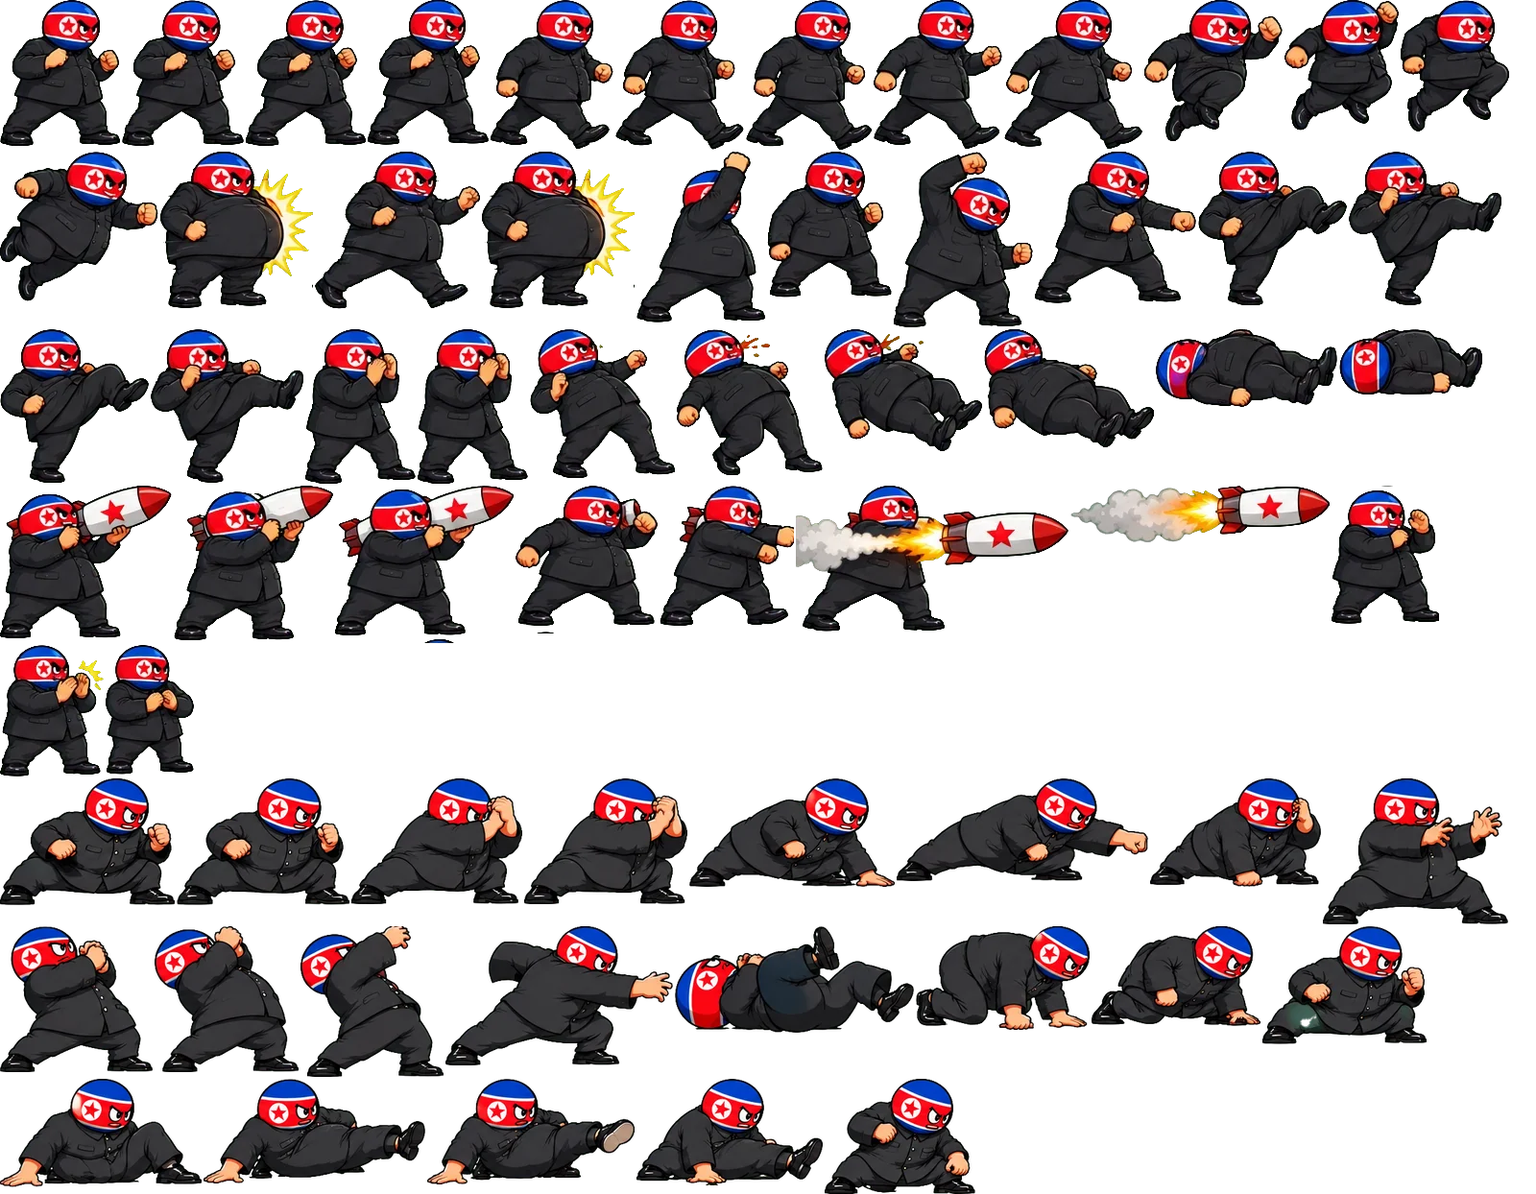
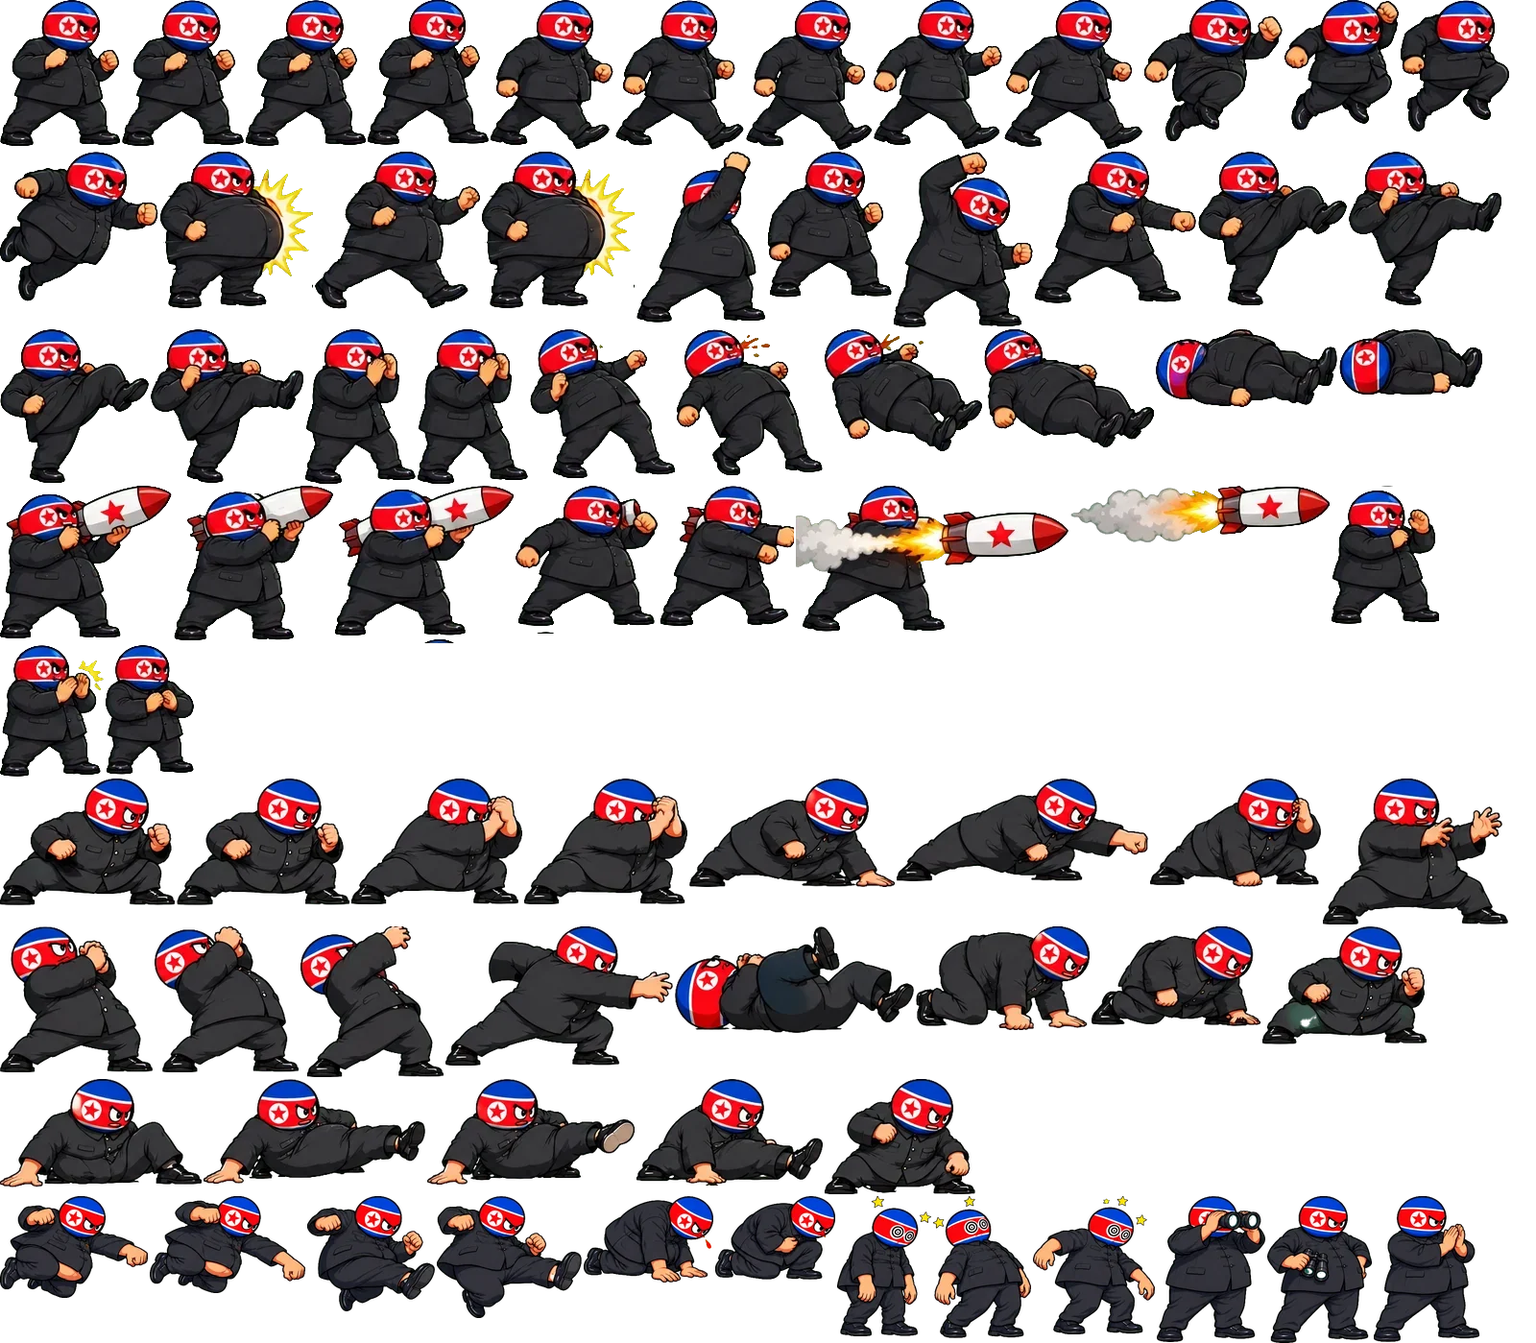
Presidents Brawl: North Korea, China and EU jump attacks, crouch hit, dizzy and entrance frames — all 10 fighters complete
Claude-Session: https://claude.ai/code/session_01HtMgEDxgy3YeKCDKp7REeJ

diff --git a/brawl/index.html b/brawl/index.html
@@ -589,9 +589,9 @@ addSprite('tur',{"idle": [[0, 0, 139, 173, 66.9], [141, 0, 140, 174, 68.7], [283
 addSprite('ukr',{"idle": [[0, 0, 149, 218, 71.3], [151, 0, 147, 218, 69.4], [300, 0, 151, 213, 71.6], [453, 0, 143, 218, 65.8]], "walk": [[598, 0, 160, 233, 76.9], [760, 0, 164, 233, 80.2], [926, 0, 169, 232, 83.2], [1097, 0, 168, 233, 81.0]], "jump": [[1267, 0, 150, 170, 79.9], [1419, 0, 172, 215, 86.2], [0, 235, 130, 196, 54.5], [132, 235, 148, 183, 65.7]], "jab": [[282, 235, 169, 220, 82.6], [453, 235, 224, 221, 88.1], [679, 235, 165, 221, 80.0]], "heavy": [[846, 235, 192, 218, 95.6], [1040, 235, 233, 221, 92.3], [1275, 235, 249, 221, 97.6], [0, 458, 180, 214, 88.0]], "kick": [[182, 458, 125, 213, 50.0], [309, 458, 231, 202, 66.9], [542, 458, 239, 202, 76.3], [783, 458, 144, 204, 59.7]], "block": [[929, 458, 181, 234, 83.0], [1112, 458, 173, 235, 80.9]], "hit": [[1287, 458, 222, 213, 110.2], [0, 695, 201, 212, 95.1], [203, 695, 206, 214, 109.3]], "ko": [[411, 695, 226, 179, 98.6], [639, 695, 296, 164, 138.8], [937, 695, 304, 110, 145.5], [1243, 695, 269, 87, 123.3]], "super": [[0, 911, 210, 241, 50.2], [212, 911, 301, 289, 152.1], [515, 911, 262, 261, 73.5], [779, 911, 270, 256, 142.3], [1051, 911, 202, 255, 65.4], [1255, 911, 235, 199, 109.6]], "win": [[0, 1202, 178, 267, 86.3], [180, 1202, 171, 235, 84.3], [353, 1202, 142, 239, 67.9]], "crouch": [[0, 1471, 226, 200, 113.9], [228, 1471, 226, 200, 112.5]], "cblock": [[456, 1471, 219, 197, 102.0], [677, 1471, 214, 197, 100.2]], "lowp": [[893, 1471, 254, 174, 165.3], [1149, 1471, 333, 169, 191.6], [0, 1673, 295, 175, 149.0]], "grab": [[297, 1673, 254, 217, 151.4], [553, 1673, 236, 219, 86.3], [791, 1673, 230, 237, 68.5], [1023, 1673, 294, 200, 178.1]], "getup": [[0, 1912, 338, 115, 163.2], [340, 1912, 236, 178, 113.9], [578, 1912, 253, 189, 127.6]], "sweep": [[833, 1912, 234, 156, 140.3], [1069, 1912, 278, 153, 104.6], [0, 2103, 272, 160, 59.2], [274, 2103, 275, 160, 108.9]], "airp": [[0, 2265, 212, 170, 86.2], [214, 2265, 197, 153, 76.7]], "airk": [[413, 2265, 194, 217, 97.8], [609, 2265, 259, 183, 96.8]], "chit": [[870, 2265, 206, 141, 90.4], [1078, 2265, 180, 139, 73.1]], "dizzy": [[1260, 2265, 127, 215, 50.5], [1389, 2265, 139, 240, 63.5], [0, 2507, 151, 213, 68.8]], "intro": [[153, 2507, 168, 217, 81.6], [323, 2507, 222, 221, 95.7], [547, 2507, 158, 228, 36.5]]},'img/ukr.webp',0.64);
 addSprite('irn',{"idle": [[0, 0, 128, 165, 62.2], [130, 0, 130, 164, 61.8], [262, 0, 125, 164, 59.2], [389, 0, 130, 164, 61.8]], "walk": [[521, 0, 125, 163, 59.7], [648, 0, 128, 164, 60.3], [778, 0, 137, 164, 61.7]], "jump": [[917, 0, 135, 162, 69.1], [1054, 0, 110, 168, 54.9], [1166, 0, 108, 160, 51.8], [1276, 0, 130, 161, 62.0]], "jab": [[1408, 0, 176, 167, 69.1], [0, 170, 202, 166, 75.8], [204, 170, 176, 167, 69.1]], "heavy": [[382, 170, 172, 166, 67.5], [556, 170, 157, 164, 62.9], [715, 170, 150, 160, 63.7], [867, 170, 177, 158, 69.9]], "kick": [[1046, 170, 166, 168, 55.1], [1214, 170, 151, 181, 51.3], [1367, 170, 146, 176, 53.7], [0, 353, 130, 163, 66.1]], "block": [[132, 353, 134, 163, 67.1], [268, 353, 122, 162, 58.5]], "hit": [[392, 353, 139, 164, 72.3], [533, 353, 160, 153, 86.8], [695, 353, 142, 161, 80.7]], "ko": [[839, 353, 198, 109, 94.3], [1039, 353, 211, 91, 96.7], [1252, 353, 199, 77, 94.9], [0, 519, 248, 66, 115.6]], "super": [[250, 519, 122, 156, 66.6], [374, 519, 232, 128, 84.0], [608, 519, 214, 117, 83.8], [824, 519, 228, 109, 95.6], [1054, 519, 225, 109, 95.6], [1281, 519, 214, 106, 66.8], [0, 677, 146, 150, 36.7]], "win": [[148, 677, 87, 166, 41.0], [237, 677, 87, 166, 40.7], [326, 677, 87, 166, 42.6]], "crouch": [[0, 845, 168, 135, 81.2], [170, 845, 159, 137, 76.5]], "cblock": [[331, 845, 158, 135, 75.5], [491, 845, 158, 136, 76.1]], "lowp": [[651, 845, 217, 108, 140.0], [870, 845, 258, 111, 161.4], [1130, 845, 182, 113, 117.4]], "grab": [[1314, 845, 192, 164, 117.8], [0, 1011, 174, 159, 72.4], [176, 1011, 169, 160, 60.6], [347, 1011, 154, 174, 83.7], [503, 1011, 254, 140, 145.1]], "getup": [[759, 1011, 254, 91, 119.1], [1015, 1011, 194, 105, 100.7], [1211, 1011, 161, 112, 89.4], [1374, 1011, 150, 113, 72.7]], "sweep": [[0, 1187, 194, 118, 88.7], [196, 1187, 234, 113, 67.0], [432, 1187, 219, 115, 56.9], [653, 1187, 217, 123, 95.2], [872, 1187, 166, 124, 84.3]], "airp": [[0, 1313, 169, 122, 79.7], [171, 1313, 161, 102, 72.0]], "airk": [[334, 1313, 152, 145, 72.4], [488, 1313, 192, 120, 78.3]], "chit": [[682, 1313, 140, 96, 66.1], [824, 1313, 124, 93, 54.0]], "dizzy": [[950, 1313, 96, 152, 38.6], [1048, 1313, 98, 157, 46.5], [1148, 1313, 112, 148, 54.7]], "intro": [[1262, 1313, 167, 168, 86.9], [1431, 1313, 128, 126, 61.2], [0, 1483, 91, 164, 46.0]]},'img/irn.webp',0.85);
 addSprite('qat',{"idle": [[0, 0, 143, 176, 68.4], [145, 0, 145, 176, 69.9], [292, 0, 149, 177, 70.6], [443, 0, 145, 176, 69.9]], "walk": [[590, 0, 157, 174, 81.0], [749, 0, 131, 175, 63.9], [882, 0, 172, 177, 76.6]], "jump": [[1056, 0, 166, 184, 77.7], [1224, 0, 108, 186, 61.5], [1334, 0, 137, 168, 71.1], [0, 188, 132, 175, 69.5]], "jab": [[134, 188, 204, 182, 74.5], [340, 188, 258, 178, 95.7], [600, 188, 204, 182, 74.5]], "heavy": [[806, 188, 191, 178, 85.8], [999, 188, 165, 178, 76.9], [1166, 188, 165, 172, 74.4], [1333, 188, 208, 163, 88.6]], "kick": [[0, 372, 177, 177, 59.4], [179, 372, 154, 194, 36.5], [335, 372, 147, 197, 44.2], [484, 372, 164, 181, 79.7]], "block": [[650, 372, 152, 180, 72.2], [804, 372, 156, 183, 72.5]], "hit": [[962, 372, 153, 165, 84.2], [1117, 372, 175, 163, 96.2], [1294, 372, 171, 167, 97.3]], "ko": [[0, 571, 218, 119, 103.9], [220, 571, 229, 129, 110.2], [451, 571, 232, 112, 110.5], [685, 571, 256, 72, 119.8]], "super": [[943, 571, 167, 167, 101.0], [1112, 571, 201, 173, 94.5], [1315, 571, 181, 174, 79.7], [0, 747, 177, 178, 64.1], [179, 747, 310, 119, 167.8], [491, 747, 210, 119, 99.1], [703, 747, 191, 165, 81.2]], "win": [[896, 747, 123, 162, 57.4], [1021, 747, 118, 155, 55.8], [1141, 747, 123, 156, 60.5]], "crouch": [[0, 927, 189, 147, 88.8], [191, 927, 190, 149, 88.6]], "cblock": [[383, 927, 194, 147, 84.6], [579, 927, 165, 147, 79.5]], "lowp": [[746, 927, 236, 113, 149.3], [984, 927, 296, 111, 172.4], [1282, 927, 229, 115, 128.7]], "grab": [[0, 1078, 202, 176, 102.0], [204, 1078, 206, 175, 82.7], [412, 1078, 187, 179, 58.3], [601, 1078, 174, 186, 83.2], [777, 1078, 267, 143, 149.9]], "getup": [[1046, 1078, 282, 95, 138.8], [1330, 1078, 204, 106, 104.8], [0, 1266, 192, 112, 105.8], [194, 1266, 186, 117, 97.3]], "sweep": [[382, 1266, 227, 124, 100.1], [611, 1266, 283, 122, 85.1], [896, 1266, 236, 116, 71.8], [1134, 1266, 232, 124, 95.6], [1368, 1266, 182, 129, 90.8]], "airp": [[0, 1397, 163, 126, 65.1], [165, 1397, 162, 118, 65.8]], "airk": [[329, 1397, 143, 149, 69.7], [474, 1397, 153, 141, 70.5]], "chit": [[629, 1397, 150, 103, 70.1], [781, 1397, 140, 99, 60.0]], "dizzy": [[923, 1397, 104, 156, 42.9], [1029, 1397, 108, 175, 50.6], [1139, 1397, 126, 167, 67.2]], "intro": [[1267, 1397, 119, 176, 54.6], [1388, 1397, 102, 177, 45.8], [1492, 1397, 107, 176, 51.5]]},'img/qat.webp',0.8);
-addSprite('eu',{"idle": [[0, 0, 104, 176, 50.3], [106, 0, 104, 175, 50.6], [212, 0, 107, 175, 51.8], [321, 0, 110, 176, 52.9]], "walk": [[433, 0, 105, 175, 49.6], [540, 0, 122, 175, 60.0], [664, 0, 116, 174, 56.5], [782, 0, 124, 175, 61.2], [908, 0, 121, 177, 59.6]], "jump": [[1031, 0, 98, 163, 52.4], [1131, 0, 105, 149, 51.9], [1238, 0, 97, 148, 47.7], [1337, 0, 103, 148, 54.0]], "jab": [[1442, 0, 112, 166, 50.3], [0, 179, 143, 162, 49.4], [145, 179, 112, 166, 50.3]], "heavy": [[259, 179, 127, 164, 43.2], [388, 179, 129, 163, 44.2], [519, 179, 135, 164, 46.4], [656, 179, 127, 166, 52.2]], "kick": [[785, 179, 123, 160, 34.4], [910, 179, 135, 158, 43.0], [1047, 179, 131, 154, 49.0], [1180, 179, 157, 138, 58.8]], "block": [[1339, 179, 93, 160, 42.4], [1434, 179, 92, 161, 44.1]], "hit": [[0, 347, 109, 148, 58.4], [111, 347, 110, 145, 63.5], [223, 347, 112, 144, 62.8]], "ko": [[337, 347, 147, 134, 60.4], [486, 347, 159, 100, 74.7], [647, 347, 160, 58, 72.5], [809, 347, 166, 51, 72.7]], "super": [[977, 347, 98, 145, 45.3], [1077, 347, 134, 146, 54.0], [1213, 347, 176, 140, 55.9], [0, 497, 243, 137, 51.5], [245, 497, 262, 141, 52.3]], "proj": [[509, 497, 136, 89, 50.7]], "win": [[647, 497, 66, 127, 37.6], [715, 497, 68, 128, 30.4], [785, 497, 60, 125, 24.8]], "crouch": [[0, 640, 160, 152, 74.4], [162, 640, 165, 153, 73.2]], "cblock": [[329, 640, 165, 151, 71.9], [496, 640, 156, 152, 58.5]], "lowp": [[654, 640, 232, 111, 155.4], [888, 640, 293, 113, 186.3], [1183, 640, 212, 119, 127.8]], "grab": [[0, 795, 205, 176, 101.3], [207, 795, 193, 177, 50.3], [402, 795, 182, 176, 46.3], [586, 795, 186, 186, 67.4], [774, 795, 256, 152, 148.9]], "getup": [[1032, 795, 264, 89, 116.2], [1298, 795, 191, 106, 96.6], [0, 983, 173, 112, 97.7], [175, 983, 172, 121, 98.4]], "sweep": [[349, 983, 210, 119, 84.5], [561, 983, 266, 117, 74.4], [829, 983, 226, 117, 55.1], [1057, 983, 221, 119, 72.4], [1280, 983, 166, 126, 71.9]]},'img/eu.webp',0.77);
-addSprite('chn',{"idle": [[0, 0, 161, 208, 77.4], [163, 0, 163, 208, 77.6], [328, 0, 171, 208, 84.3], [501, 0, 166, 208, 80.1]], "walk": [[669, 0, 187, 215, 91.4], [858, 0, 182, 215, 90.2], [1042, 0, 182, 214, 94.8], [1226, 0, 184, 216, 91.2]], "jump": [[1412, 0, 161, 164, 90.4], [0, 218, 162, 193, 85.9], [164, 218, 145, 180, 79.2], [311, 218, 203, 184, 114.7]], "jab": [[516, 218, 222, 197, 110.3], [740, 218, 269, 196, 116.3], [1011, 218, 220, 197, 107.6]], "heavy": [[1233, 218, 194, 194, 97.7], [0, 417, 229, 195, 108.7], [231, 417, 254, 195, 128.8], [487, 417, 203, 197, 99.5]], "kick": [[692, 417, 233, 188, 39.8], [927, 417, 154, 192, 40.1], [1083, 417, 280, 136, 102.1], [1365, 417, 202, 159, 98.7]], "block": [[0, 616, 201, 236, 94.3], [203, 616, 202, 240, 94.4]], "hit": [[407, 616, 182, 232, 84.8], [591, 616, 197, 238, 93.2]], "ko": [[790, 616, 226, 221, 92.7], [1018, 616, 266, 186, 120.8], [1286, 616, 258, 124, 107.8], [0, 858, 285, 83, 134.6]], "super": [[287, 858, 182, 265, 87.9], [471, 858, 186, 271, 80.3], [659, 858, 200, 261, 68.2], [861, 858, 333, 253, 100.0], [1196, 858, 259, 203, 100.5]], "win": [[0, 1131, 160, 253, 75.1], [162, 1131, 139, 227, 52.3], [303, 1131, 131, 255, 49.2]], "crouch": [[0, 1388, 275, 185, 136.2], [277, 1388, 256, 185, 130.3]], "cblock": [[535, 1388, 244, 183, 104.9], [781, 1388, 213, 184, 95.1]], "lowp": [[996, 1388, 316, 139, 201.8], [0, 1575, 361, 141, 229.8], [363, 1575, 279, 142, 144.9]], "grab": [[644, 1575, 293, 208, 159.2], [939, 1575, 267, 205, 97.2], [1208, 1575, 261, 210, 114.9], [0, 1787, 223, 225, 119.3], [225, 1787, 294, 192, 165.6]], "getup": [[521, 1787, 355, 125, 174.2], [878, 1787, 250, 141, 126.0], [1130, 1787, 254, 138, 135.9], [0, 2014, 290, 137, 155.5]], "sweep": [[292, 2014, 351, 153, 127.6], [645, 2014, 357, 151, 142.6], [1004, 2014, 294, 158, 116.7], [0, 2174, 320, 146, 117.6], [322, 2174, 244, 165, 119.8]]},'img/chn.webp',0.72);
-addSprite('nk',{"idle": [[0, 0, 125, 152, 59.5], [127, 0, 127, 152, 60.5], [256, 0, 125, 152, 59.3], [383, 0, 126, 151, 60.0]], "walk": [[511, 0, 128, 155, 62.3], [641, 0, 134, 156, 68.4], [777, 0, 131, 156, 65.8], [910, 0, 134, 155, 66.9], [1046, 0, 144, 155, 72.2]], "jump": [[1192, 0, 144, 147, 68.4], [1338, 0, 119, 136, 62.0], [1459, 0, 113, 137, 54.2], [0, 158, 165, 156, 73.2]], "jab": [[167, 158, 159, 163, 56.2], [328, 158, 172, 164, 80.7], [502, 158, 159, 163, 56.2]], "heavy": [[663, 158, 134, 178, 64.0], [799, 158, 130, 152, 63.7], [931, 158, 145, 183, 63.5], [1078, 158, 168, 158, 72.5]], "kick": [[1248, 158, 155, 160, 49.1], [1405, 158, 159, 160, 56.7], [0, 343, 155, 160, 49.1], [157, 343, 159, 160, 56.7]], "block": [[318, 343, 115, 161, 51.4], [435, 343, 115, 161, 51.4]], "hit": [[552, 343, 151, 155, 82.6], [705, 343, 152, 152, 91.2]], "ko": [[859, 343, 164, 127, 70.9], [1025, 343, 177, 123, 73.2], [1204, 343, 189, 81, 88.7], [1395, 343, 149, 68, 70.7]], "super": [[0, 506, 179, 159, 59.5], [181, 506, 166, 161, 59.9], [349, 506, 186, 164, 68.6], [537, 506, 148, 154, 71.2], [687, 506, 140, 146, 64.0], [829, 506, 284, 152, 78.9]], "proj": [[1115, 506, 270, 59, 90.8]], "win": [[1387, 506, 112, 144, 52.7], [0, 672, 108, 137, 48.7], [110, 672, 92, 135, 43.1]], "crouch": [[0, 811, 182, 132, 88.9], [184, 811, 180, 132, 88.1]], "cblock": [[366, 811, 178, 131, 85.3], [546, 811, 170, 131, 81.5]], "lowp": [[718, 811, 214, 113, 144.1], [934, 811, 262, 107, 163.4], [1198, 811, 178, 113, 123.9]], "grab": [[1378, 811, 193, 152, 96.1], [0, 965, 159, 152, 59.2], [161, 965, 150, 152, 50.9], [313, 965, 149, 157, 56.6], [464, 965, 237, 145, 119.7]], "getup": [[703, 965, 249, 111, 115.0], [954, 965, 181, 108, 94.6], [1137, 965, 176, 104, 95.9], [1315, 965, 171, 123, 83.4]], "sweep": [[0, 1124, 210, 113, 106.1], [212, 1124, 231, 109, 89.2], [445, 1124, 216, 110, 83.2], [663, 1124, 194, 111, 98.6], [859, 1124, 157, 120, 94.6]]},'img/nk.webp',.82);
+addSprite('eu',{"idle": [[0, 0, 104, 176, 50.3], [106, 0, 104, 175, 50.6], [212, 0, 107, 175, 51.8], [321, 0, 110, 176, 52.9]], "walk": [[433, 0, 105, 175, 49.6], [540, 0, 122, 175, 60.0], [664, 0, 116, 174, 56.5], [782, 0, 124, 175, 61.2], [908, 0, 121, 177, 59.6]], "jump": [[1031, 0, 98, 163, 52.4], [1131, 0, 105, 149, 51.9], [1238, 0, 97, 148, 47.7], [1337, 0, 103, 148, 54.0]], "jab": [[1442, 0, 112, 166, 50.3], [0, 179, 143, 162, 49.4], [145, 179, 112, 166, 50.3]], "heavy": [[259, 179, 127, 164, 43.2], [388, 179, 129, 163, 44.2], [519, 179, 135, 164, 46.4], [656, 179, 127, 166, 52.2]], "kick": [[785, 179, 123, 160, 34.4], [910, 179, 135, 158, 43.0], [1047, 179, 131, 154, 49.0], [1180, 179, 157, 138, 58.8]], "block": [[1339, 179, 93, 160, 42.4], [1434, 179, 92, 161, 44.1]], "hit": [[0, 347, 109, 148, 58.4], [111, 347, 110, 145, 63.5], [223, 347, 112, 144, 62.8]], "ko": [[337, 347, 147, 134, 60.4], [486, 347, 159, 100, 74.7], [647, 347, 160, 58, 72.5], [809, 347, 166, 51, 72.7]], "super": [[977, 347, 98, 145, 45.3], [1077, 347, 134, 146, 54.0], [1213, 347, 176, 140, 55.9], [0, 497, 243, 137, 51.5], [245, 497, 262, 141, 52.3]], "proj": [[509, 497, 136, 89, 50.7]], "win": [[647, 497, 66, 127, 37.6], [715, 497, 68, 128, 30.4], [785, 497, 60, 125, 24.8]], "crouch": [[0, 640, 160, 152, 74.4], [162, 640, 165, 153, 73.2]], "cblock": [[329, 640, 165, 151, 71.9], [496, 640, 156, 152, 58.5]], "lowp": [[654, 640, 232, 111, 155.4], [888, 640, 293, 113, 186.3], [1183, 640, 212, 119, 127.8]], "grab": [[0, 795, 205, 176, 101.3], [207, 795, 193, 177, 50.3], [402, 795, 182, 176, 46.3], [586, 795, 186, 186, 67.4], [774, 795, 256, 152, 148.9]], "getup": [[1032, 795, 264, 89, 116.2], [1298, 795, 191, 106, 96.6], [0, 983, 173, 112, 97.7], [175, 983, 172, 121, 98.4]], "sweep": [[349, 983, 210, 119, 84.5], [561, 983, 266, 117, 74.4], [829, 983, 226, 117, 55.1], [1057, 983, 221, 119, 72.4], [1280, 983, 166, 126, 71.9]], "airp": [[0, 1111, 153, 124, 61.8], [155, 1111, 155, 116, 64.6]], "airk": [[312, 1111, 142, 155, 68.9], [456, 1111, 193, 135, 73.3]], "chit": [[651, 1111, 136, 106, 66.7], [789, 1111, 121, 102, 48.1]], "dizzy": [[912, 1111, 108, 181, 39.9], [1022, 1111, 103, 186, 42.6], [1127, 1111, 125, 177, 61.0]], "intro": [[1254, 1111, 132, 162, 57.5], [1388, 1111, 104, 180, 48.5], [0, 1299, 128, 176, 59.3]]},'img/eu.webp',0.77);
+addSprite('chn',{"idle": [[0, 0, 161, 208, 77.4], [163, 0, 163, 208, 77.6], [328, 0, 171, 208, 84.3], [501, 0, 166, 208, 80.1]], "walk": [[669, 0, 187, 215, 91.4], [858, 0, 182, 215, 90.2], [1042, 0, 182, 214, 94.8], [1226, 0, 184, 216, 91.2]], "jump": [[1412, 0, 161, 164, 90.4], [0, 218, 162, 193, 85.9], [164, 218, 145, 180, 79.2], [311, 218, 203, 184, 114.7]], "jab": [[516, 218, 222, 197, 110.3], [740, 218, 269, 196, 116.3], [1011, 218, 220, 197, 107.6]], "heavy": [[1233, 218, 194, 194, 97.7], [0, 417, 229, 195, 108.7], [231, 417, 254, 195, 128.8], [487, 417, 203, 197, 99.5]], "kick": [[692, 417, 233, 188, 39.8], [927, 417, 154, 192, 40.1], [1083, 417, 280, 136, 102.1], [1365, 417, 202, 159, 98.7]], "block": [[0, 616, 201, 236, 94.3], [203, 616, 202, 240, 94.4]], "hit": [[407, 616, 182, 232, 84.8], [591, 616, 197, 238, 93.2]], "ko": [[790, 616, 226, 221, 92.7], [1018, 616, 266, 186, 120.8], [1286, 616, 258, 124, 107.8], [0, 858, 285, 83, 134.6]], "super": [[287, 858, 182, 265, 87.9], [471, 858, 186, 271, 80.3], [659, 858, 200, 261, 68.2], [861, 858, 333, 253, 100.0], [1196, 858, 259, 203, 100.5]], "win": [[0, 1131, 160, 253, 75.1], [162, 1131, 139, 227, 52.3], [303, 1131, 131, 255, 49.2]], "crouch": [[0, 1388, 275, 185, 136.2], [277, 1388, 256, 185, 130.3]], "cblock": [[535, 1388, 244, 183, 104.9], [781, 1388, 213, 184, 95.1]], "lowp": [[996, 1388, 316, 139, 201.8], [0, 1575, 361, 141, 229.8], [363, 1575, 279, 142, 144.9]], "grab": [[644, 1575, 293, 208, 159.2], [939, 1575, 267, 205, 97.2], [1208, 1575, 261, 210, 114.9], [0, 1787, 223, 225, 119.3], [225, 1787, 294, 192, 165.6]], "getup": [[521, 1787, 355, 125, 174.2], [878, 1787, 250, 141, 126.0], [1130, 1787, 254, 138, 135.9], [0, 2014, 290, 137, 155.5]], "sweep": [[292, 2014, 351, 153, 127.6], [645, 2014, 357, 151, 142.6], [1004, 2014, 294, 158, 116.7], [0, 2174, 320, 146, 117.6], [322, 2174, 244, 165, 119.8]], "airp": [[0, 2341, 252, 184, 112.9], [254, 2341, 240, 188, 104.9]], "airk": [[496, 2341, 252, 204, 130.4], [750, 2341, 321, 194, 138.3]], "chit": [[1073, 2341, 220, 160, 112.8], [1295, 2341, 200, 152, 85.7]], "dizzy": [[0, 2547, 141, 241, 64.1], [143, 2547, 168, 274, 69.4], [313, 2547, 207, 242, 111.2]], "intro": [[522, 2547, 143, 260, 57.6], [667, 2547, 222, 258, 89.8], [891, 2547, 247, 208, 120.2]]},'img/chn.webp',0.72);
+addSprite('nk',{"idle": [[0, 0, 125, 152, 59.5], [127, 0, 127, 152, 60.5], [256, 0, 125, 152, 59.3], [383, 0, 126, 151, 60.0]], "walk": [[511, 0, 128, 155, 62.3], [641, 0, 134, 156, 68.4], [777, 0, 131, 156, 65.8], [910, 0, 134, 155, 66.9], [1046, 0, 144, 155, 72.2]], "jump": [[1192, 0, 144, 147, 68.4], [1338, 0, 119, 136, 62.0], [1459, 0, 113, 137, 54.2], [0, 158, 165, 156, 73.2]], "jab": [[167, 158, 159, 163, 56.2], [328, 158, 172, 164, 80.7], [502, 158, 159, 163, 56.2]], "heavy": [[663, 158, 134, 178, 64.0], [799, 158, 130, 152, 63.7], [931, 158, 145, 183, 63.5], [1078, 158, 168, 158, 72.5]], "kick": [[1248, 158, 155, 160, 49.1], [1405, 158, 159, 160, 56.7], [0, 343, 155, 160, 49.1], [157, 343, 159, 160, 56.7]], "block": [[318, 343, 115, 161, 51.4], [435, 343, 115, 161, 51.4]], "hit": [[552, 343, 151, 155, 82.6], [705, 343, 152, 152, 91.2]], "ko": [[859, 343, 164, 127, 70.9], [1025, 343, 177, 123, 73.2], [1204, 343, 189, 81, 88.7], [1395, 343, 149, 68, 70.7]], "super": [[0, 506, 179, 159, 59.5], [181, 506, 166, 161, 59.9], [349, 506, 186, 164, 68.6], [537, 506, 148, 154, 71.2], [687, 506, 140, 146, 64.0], [829, 506, 284, 152, 78.9]], "proj": [[1115, 506, 270, 59, 90.8]], "win": [[1387, 506, 112, 144, 52.7], [0, 672, 108, 137, 48.7], [110, 672, 92, 135, 43.1]], "crouch": [[0, 811, 182, 132, 88.9], [184, 811, 180, 132, 88.1]], "cblock": [[366, 811, 178, 131, 85.3], [546, 811, 170, 131, 81.5]], "lowp": [[718, 811, 214, 113, 144.1], [934, 811, 262, 107, 163.4], [1198, 811, 178, 113, 123.9]], "grab": [[1378, 811, 193, 152, 96.1], [0, 965, 159, 152, 59.2], [161, 965, 150, 152, 50.9], [313, 965, 149, 157, 56.6], [464, 965, 237, 145, 119.7]], "getup": [[703, 965, 249, 111, 115.0], [954, 965, 181, 108, 94.6], [1137, 965, 176, 104, 95.9], [1315, 965, 171, 123, 83.4]], "sweep": [[0, 1124, 210, 113, 106.1], [212, 1124, 231, 109, 89.2], [445, 1124, 216, 110, 83.2], [663, 1124, 194, 111, 98.6], [859, 1124, 157, 120, 94.6]], "airp": [[0, 1246, 154, 106, 66.4], [156, 1246, 162, 101, 71.5]], "airk": [[320, 1246, 133, 120, 63.5], [455, 1246, 151, 127, 63.2]], "chit": [[608, 1246, 135, 90, 67.1], [745, 1246, 125, 87, 54.7]], "dizzy": [[872, 1246, 98, 146, 40.8], [972, 1246, 102, 148, 50.2], [1076, 1246, 127, 144, 66.0]], "intro": [[1205, 1246, 113, 152, 47.7], [1320, 1246, 109, 153, 51.0], [1431, 1246, 110, 152, 51.5]]},'img/nk.webp',.82);
 addSprite('isr',{"idle": [[0, 0, 131, 165, 65.8], [133, 0, 125, 166, 62.0], [260, 0, 130, 165, 65.2], [392, 0, 130, 163, 56.9]], "walk": [[524, 0, 134, 164, 71.2], [660, 0, 130, 163, 64.6], [792, 0, 125, 164, 33.4], [919, 0, 108, 165, 63.9], [1029, 0, 123, 167, 39.2], [1154, 0, 135, 165, 66.8]], "jump": [[1291, 0, 118, 134, 61.2], [1411, 0, 159, 141, 72.4], [0, 169, 209, 168, 103.0], [211, 169, 138, 137, 83.7]], "jab": [[351, 169, 144, 165, 72.0], [497, 169, 190, 166, 79.0], [689, 169, 175, 162, 71.2]], "heavy": [[866, 169, 182, 166, 91.6], [1050, 169, 183, 168, 82.8], [1235, 169, 200, 171, 89.6], [1437, 169, 148, 165, 73.2]], "kick": [[0, 342, 103, 169, 15.1], [105, 342, 207, 168, 70.6], [314, 342, 212, 169, 78.1], [528, 342, 140, 171, 69.9]], "block": [[670, 342, 120, 160, 60.5]], "hit": [[792, 342, 150, 162, 91.0], [944, 342, 165, 154, 64.2]], "ko": [[1111, 342, 201, 132, 86.5], [1314, 342, 182, 123, 93.7], [0, 515, 207, 99, 92.4], [209, 515, 207, 99, 92.4]], "super": [[418, 515, 141, 165, 64.6], [561, 515, 194, 156, 86.0], [757, 515, 217, 166, 88.8], [976, 515, 206, 169, 101.0], [1184, 515, 234, 181, 87.5], [1420, 515, 142, 167, 59.9]], "win": [[0, 698, 109, 202, 53.7], [111, 698, 110, 198, 53.4], [223, 698, 121, 204, 59.1]], "crouch": [[0, 904, 159, 138, 78.9], [161, 904, 163, 139, 77.0]], "cblock": [[326, 904, 158, 138, 66.4], [486, 904, 145, 137, 64.3]], "lowp": [[633, 904, 193, 100, 127.3], [828, 904, 252, 100, 152.5], [1082, 904, 196, 103, 109.7]], "grab": [[1280, 904, 180, 165, 92.4], [0, 1071, 175, 162, 43.7], [177, 1071, 164, 166, 56.1], [343, 1071, 162, 179, 76.3], [507, 1071, 231, 138, 134.7]], "getup": [[740, 1071, 259, 78, 123.9], [1001, 1071, 178, 100, 89.9], [1181, 1071, 161, 112, 85.6], [1344, 1071, 156, 119, 78.8]], "sweep": [[0, 1252, 178, 112, 82.0], [180, 1252, 255, 106, 83.0], [437, 1252, 203, 107, 54.8], [642, 1252, 211, 109, 76.8], [855, 1252, 148, 110, 67.9]], "airp": [[0, 1366, 149, 126, 61.6], [151, 1366, 156, 109, 67.1]], "airk": [[309, 1366, 133, 155, 67.8], [444, 1366, 192, 134, 73.0]], "chit": [[638, 1366, 132, 91, 64.1], [772, 1366, 126, 94, 53.5]], "dizzy": [[900, 1366, 88, 164, 35.0], [990, 1366, 93, 167, 43.0], [1085, 1366, 108, 160, 48.0]], "intro": [[1195, 1366, 82, 172, 32.9], [1279, 1366, 87, 173, 43.2], [1368, 1366, 130, 165, 64.8]]},'img/isr.webp',0.85);
 let SQ=1,ROT=0;
 function sprFrame(f,time,M){
